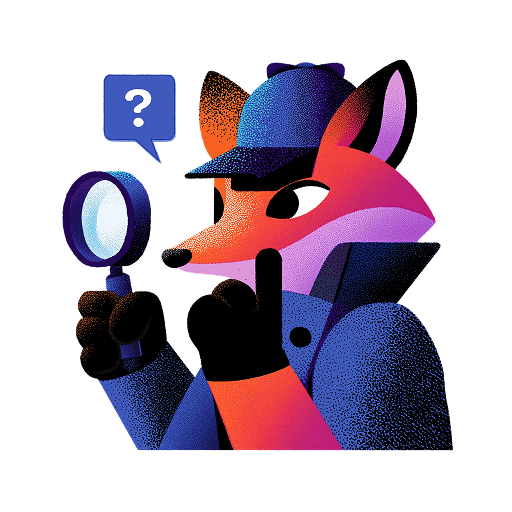
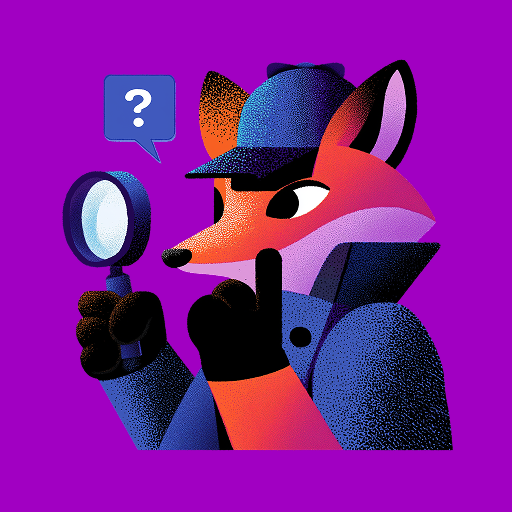
feat: Enhance Landing page UI and add Home button to Header
- Increase font sizes for better readability on Landing page
- Make CTA buttons more prominent with bolder text
- Add optional Home button to Header component
- Fix TypeScript error: Replace NodeJS.Timeout with number type for browser compatibility
- Update VOC result card image

diff --git a/app/src/pages/Landing.tsx b/app/src/pages/Landing.tsx
@@ -98,27 +98,27 @@ export const Landing = () => {
             </div>
 
             {/* Main Title with Text Shadow */}
-            <h1 className="font-space-grotesk font-bold text-[32px] sm:text-[56px] md:text-[80px] leading-[1.1] tracking-[-1.6px] sm:tracking-[-2.4px] md:tracking-[-3.2px] text-[#231821] text-shadow-kinetic">
+            <h1 className="font-space-grotesk font-bold text-[36px] sm:text-[56px] md:text-[72px] leading-[1.1] tracking-[-1.6px] sm:tracking-[-2.4px] md:tracking-[-3.0px] text-[#231821] text-shadow-kinetic">
               Impulse26.Key
             </h1>
 
             {/* Subtitle */}
-            <h2 className="font-72-brand text-[18px] sm:text-[32px] md:text-display-lg text-[#5d38e3] leading-[1.3]">
+            <h2 className="font-72-brand text-[20px] sm:text-[28px] md:text-[36px] text-[#5d38e3] leading-[1.3]">
               {t('landing.subtitle')}
             </h2>
 
-            {/* Description */}
-            <div className="max-w-full lg:max-w-[576px]">
-              <p className="font-72-brand text-[14px] sm:text-body-lg text-[#534150] leading-[1.6]">
+            {/* Description - Slightly smaller font */}
+            <div className="max-w-full lg:max-w-[600px]">
+              <p className="font-72-brand text-[15px] sm:text-[17px] text-[#534150] leading-[1.6]">
                 {t('landing.description1')}
               </p>
             </div>
 
-            {/* CTA Buttons - Hidden on mobile, visible on desktop */}
-            <div className="hidden sm:flex flex-col sm:flex-row gap-3 pt-2 sm:pt-4">
+            {/* CTA Buttons - Larger and more prominent */}
+            <div className="flex flex-col sm:flex-row gap-4 pt-2 sm:pt-4">
               <button
                 onClick={handleStartTest}
-                className="relative w-full sm:w-auto px-6 sm:px-10 py-3 sm:py-5 text-white font-72-brand text-[14px] sm:text-body-lg rounded-full overflow-hidden transition-all duration-300 hover:translate-y-[-2px] active:translate-y-[1px] group"
+                className="relative w-full sm:w-auto px-6 sm:px-10 py-3 sm:py-5 text-white font-72-brand text-[15px] sm:text-[18px] font-bold rounded-full overflow-hidden transition-all duration-300 hover:translate-y-[-2px] active:translate-y-[1px] group"
                 style={{
                   background: 'linear-gradient(145deg, #c026d3 0%, #a800aa 50%, #800082 100%)',
                   boxShadow: `
@@ -158,7 +158,7 @@ export const Landing = () => {
               </button>
               <button
                 onClick={() => navigate('/intro')}
-                className="relative w-full sm:w-auto px-6 sm:px-10 py-3 sm:py-5 text-[#534150] font-72-brand text-[14px] sm:text-body-lg rounded-full transition-all duration-300 hover:translate-y-[-1px] hover:border-[#a800aa] hover:text-[#a800aa] active:translate-y-[0px] overflow-hidden group"
+                className="relative w-full sm:w-auto px-6 sm:px-10 py-3 sm:py-5 text-[#534150] font-72-brand text-[15px] sm:text-[18px] font-bold rounded-full transition-all duration-300 hover:translate-y-[-1px] hover:border-[#a800aa] hover:text-[#a800aa] active:translate-y-[0px] overflow-hidden group"
                 style={{
                   borderWidth: '3px',
                   borderColor: '#d8bfd1',
@@ -178,35 +178,15 @@ export const Landing = () => {
                 <span className="relative z-10">{t('landing.howToPlayButton')}</span>
               </button>
             </div>
-
-            {/* Disclaimer Section */}
-            <div className="border-t border-[#d8bfd1] pt-8 sm:pt-12 grid grid-cols-1 sm:grid-cols-2 gap-6 sm:gap-8 max-w-full lg:max-w-[652px]">
-              <div className="space-y-2">
-                <p className="font-jetbrains-mono font-medium text-[10px] sm:text-[12px] leading-[16px] sm:leading-[18px] text-[#a800aa] uppercase">
-                  DISCLAIMER / 免责声明
-                </p>
-                <p className="font-72-brand text-[14px] sm:text-body-sm text-[#534150]">
-                  {t('landing.description3')}
-                </p>
-              </div>
-              <div className="space-y-2">
-                <p className="font-jetbrains-mono font-medium text-[10px] sm:text-[12px] leading-[16px] sm:leading-[18px] text-[#a800aa] uppercase">
-                  PRIVACY / 隐私提示
-                </p>
-                <p className="font-72-brand text-[14px] sm:text-body-sm text-[#534150]">
-                  {t('landing.privacy')}
-                </p>
-              </div>
-            </div>
           </div>
 
-          {/* Right Column - Hero Visual */}
-          <div className="flex-shrink-0 flex flex-col items-start justify-start w-full lg:w-[360px] relative mt-8 lg:mt-0">
+          {/* Right Column - Hero Visual (Balanced size) */}
+          <div className="flex-shrink-0 flex flex-col items-center justify-center w-full lg:w-[400px] relative mt-8 lg:mt-0">
             {/* Key Visual Container */}
-            <div className="relative w-full max-w-[300px] aspect-[376/361] lg:w-[300px] lg:h-[288px]">
+            <div className="relative w-full max-w-[360px] lg:max-w-[400px] aspect-square">
               {/* Main Container with Decorative Borders */}
               <div
-                className="absolute inset-0 bg-white border-2 border-[#a800aa] rounded-lg p-7 transition-all duration-500 hover:scale-105 cursor-pointer group overflow-hidden"
+                className="absolute inset-0 bg-white border-2 border-[#a800aa] rounded-lg p-8 transition-all duration-500 hover:scale-[1.02] cursor-pointer group overflow-hidden"
                 style={{
                   boxShadow: `
                     0 4px 6px -1px rgba(0, 0, 0, 0.1),
@@ -276,20 +256,20 @@ export const Landing = () => {
                 <div className="absolute bottom-4 left-6 w-36 h-4 bg-white group-hover:bg-transparent transition-colors duration-500 z-10" />
 
                 {/* Inner Frame */}
-                <div className="relative w-full h-full border border-[#d8bfd1] rounded flex items-center justify-center p-4 transition-all duration-300 group-hover:border-[#f65af2] z-10">
+                <div className="relative w-full h-full border border-[#d8bfd1] rounded flex flex-col items-center justify-center p-4 transition-all duration-300 group-hover:border-[#f65af2] z-10">
                   {/* Key Visual Image */}
                   <img
                     src="/assets/impulse-key-visual.png"
                     alt="Impulse Key Visual"
-                    className="w-full h-full object-contain transition-all duration-500 group-hover:scale-90 group-hover:opacity-0 relative z-10"
+                    className="w-full h-auto object-contain mb-4"
                   />
 
-                  {/* Motto SVG - hidden by default, shown on hover */}
-                  <div className="absolute inset-0 flex items-center justify-center p-6 opacity-0 group-hover:opacity-100 transition-all duration-500 z-20">
+                  {/* Motto SVG - Always visible, more prominent on hover */}
+                  <div className="w-full px-2 transition-all duration-500 group-hover:scale-105">
                     <img
                       src="/assets/Impulse26_motto.svg"
                       alt="The tool to follow your hands."
-                      className="w-full h-auto drop-shadow-[0_2px_8px_rgba(0,0,0,0.3)] scale-90 group-hover:scale-100 transition-transform duration-500"
+                      className="w-full h-auto drop-shadow-[0_2px_8px_rgba(0,0,0,0.2)] group-hover:drop-shadow-[0_4px_12px_rgba(0,0,0,0.3)]"
                     />
                   </div>
                 </div>

diff --git a/app/src/components/Header.tsx b/app/src/components/Header.tsx
@@ -6,13 +6,14 @@ import { useState, useRef } from 'react';
 interface HeaderProps {
   showRetakeButton?: boolean;
   onRetake?: () => void;
+  showHomeButton?: boolean;
 }
 
-export const Header = ({ showRetakeButton = false, onRetake }: HeaderProps) => {
+export const Header = ({ showRetakeButton = false, onRetake, showHomeButton = false }: HeaderProps) => {
   const navigate = useNavigate();
   const { language } = useLanguage();
   const [clickCount, setClickCount] = useState(0);
-  const clickTimeoutRef = useRef<NodeJS.Timeout | null>(null);
+  const clickTimeoutRef = useRef<number | null>(null);
 
   const handleLogoClick = (e: React.MouseEvent) => {
     // Prevent default navigation if we're tracking clicks
@@ -81,8 +82,18 @@ export const Header = ({ showRetakeButton = false, onRetake }: HeaderProps) => {
             />
           </div>
 
-          {/* Right side: Retake button (optional) + Language Switcher */}
+          {/* Right side: Home button (optional) + Retake button (optional) + Language Switcher */}
           <div className="flex items-center gap-3">
+            {showHomeButton && (
+              <button
+                onClick={() => navigate('/')}
+                className="px-4 py-2 text-[#a800aa] font-space-grotesk font-bold text-[14px] leading-[20px] rounded-full border-2 border-[#a800aa] transition-all duration-300 hover:bg-[#a800aa] hover:text-white active:scale-95 flex items-center gap-2"
+                aria-label={language === 'zh' ? '回到首页' : 'Go to Home'}
+              >
+                <span className="text-[16px]">🏠</span>
+                <span className="hidden sm:inline">{language === 'zh' ? '首页' : 'HOME'}</span>
+              </button>
+            )}
             {showRetakeButton && onRetake && (
               <button
                 onClick={onRetake}

diff --git a/app/src/pages/Result.tsx b/app/src/pages/Result.tsx
@@ -205,7 +205,7 @@ export const Result = () => {
 
   return (
     <div className="min-h-screen bg-white flex flex-col">
-      <Header showRetakeButton={true} onRetake={handleRetake} />
+      <Header showHomeButton={true} showRetakeButton={true} onRetake={handleRetake} />
 
       <main ref={resultRef} className="flex-1 max-w-[1280px] mx-auto px-4 sm:px-8 md:px-16 py-6 sm:py-8 md:py-12 pb-24 lg:pb-12 w-full">
         {/* Responsive Layout: Single column on mobile, 12-column grid on desktop */}

diff --git a/app/src/pages/TestIntro.tsx b/app/src/pages/TestIntro.tsx
@@ -23,7 +23,7 @@ export const TestIntro = () => {
 
   return (
     <div className="min-h-screen bg-white flex flex-col">
-      <Header />
+      <Header showHomeButton={true} />
 
       <main className="flex-1 flex items-center justify-center py-8 sm:py-16 md:py-24 pb-24 sm:pb-24 px-4 sm:px-8 md:px-16" id="main-content">
         <div className="max-w-3xl w-full bg-[#ffeff8] border border-[#d8bfd1] rounded-lg p-6 sm:p-8 md:p-12 shadow-soft-lg">

diff --git a/app/src/pages/RoleSelection.tsx b/app/src/pages/RoleSelection.tsx
@@ -52,7 +52,7 @@ export const RoleSelection = () => {
 
   return (
     <div className="min-h-screen bg-[#faf8fb] flex flex-col">
-      <Header />
+      <Header showHomeButton={true} />
 
       <main className="flex-1 py-8 sm:py-16 md:py-24 pb-24 sm:pb-24 px-4 sm:px-8 md:px-16" id="main-content">
         <div className="max-w-[1280px] mx-auto">

diff --git a/app/src/pages/QuestionFlow.tsx b/app/src/pages/QuestionFlow.tsx
@@ -58,7 +58,7 @@ export const QuestionFlow = () => {
 
   return (
     <div className="min-h-screen bg-white flex flex-col">
-      <Header />
+      <Header showHomeButton={true} />
       <GlossaryPanel />
 
       {/* Progress Bar - Mobile only, sticky below header */}
